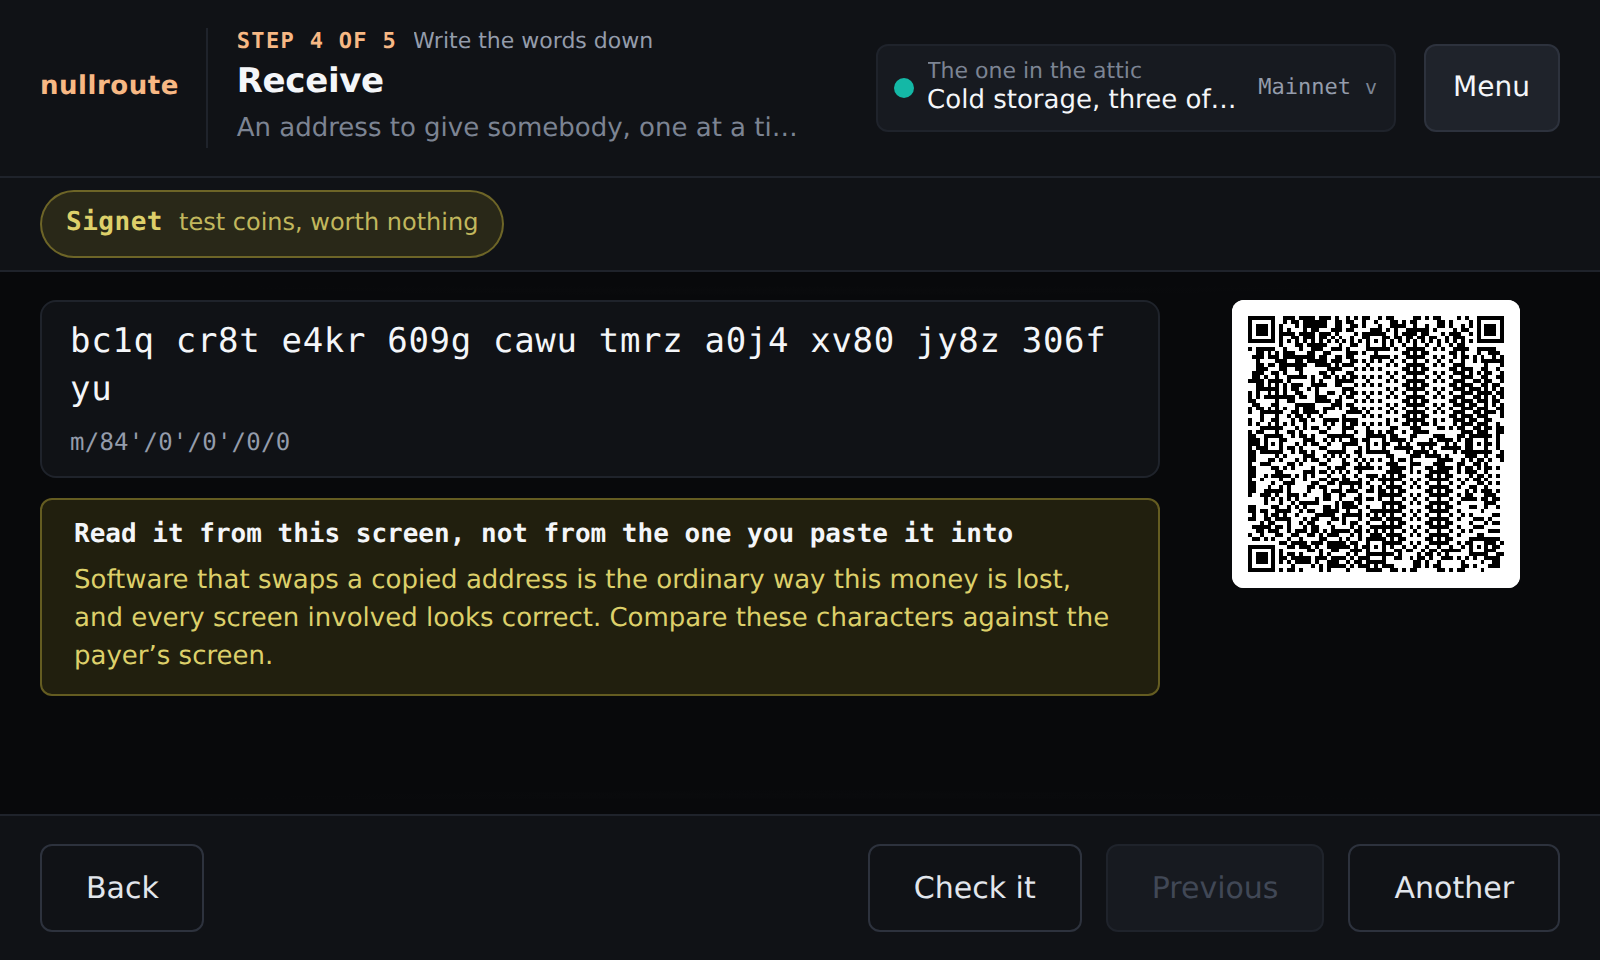
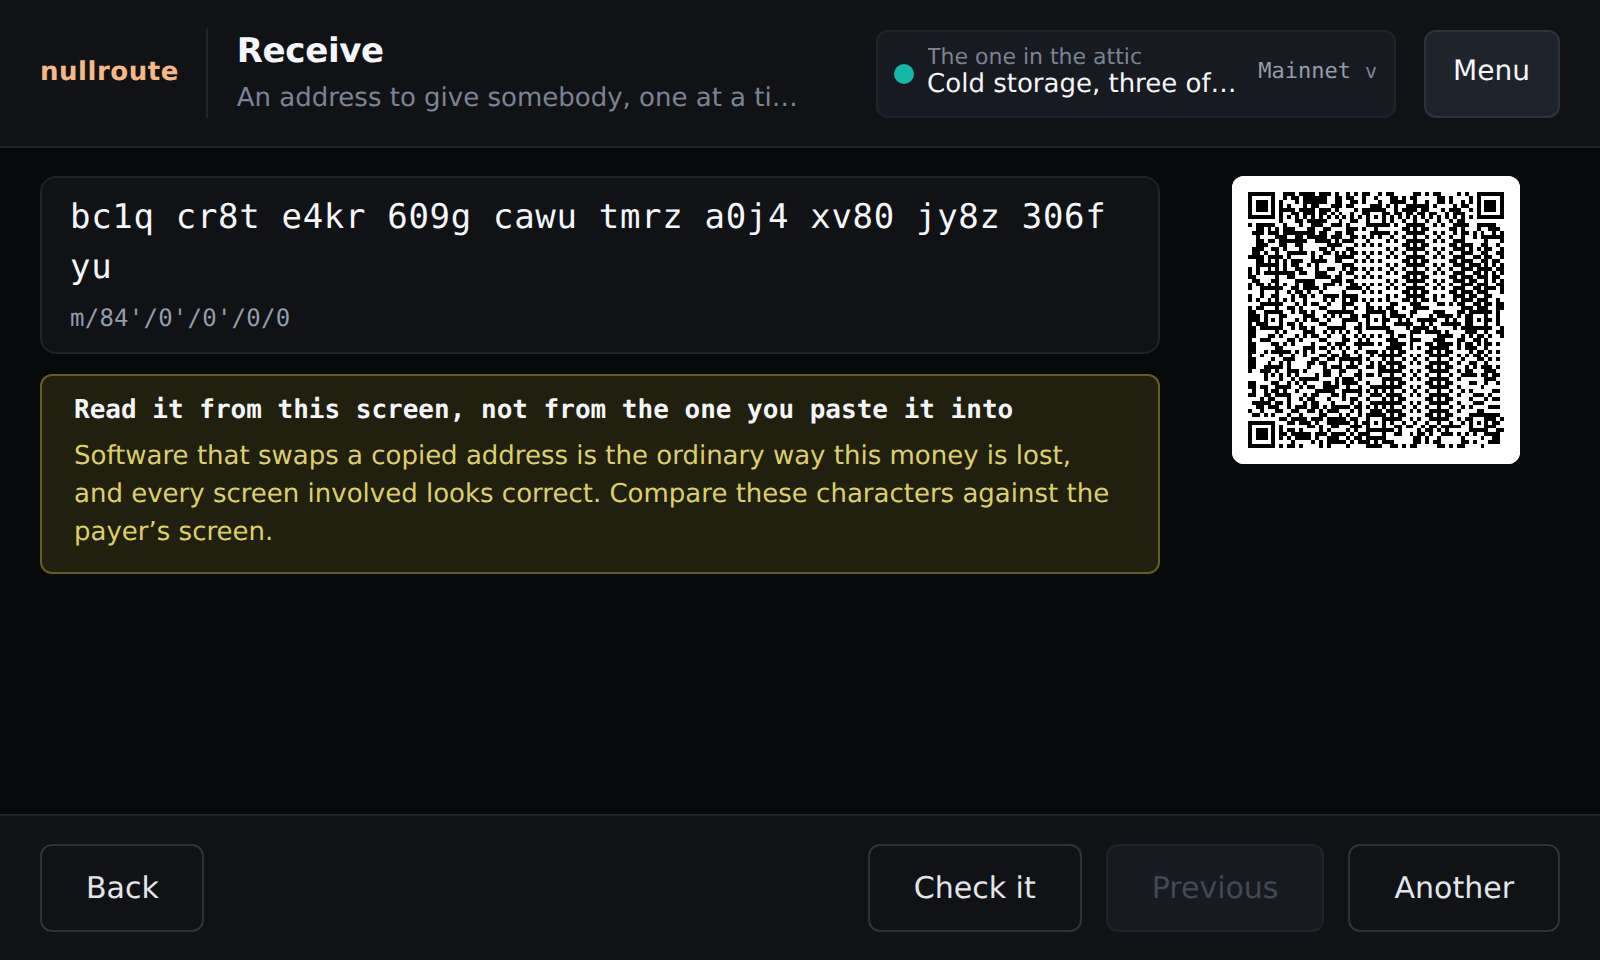
The website's screenshots showed a test fixture, not a device
The gallery puts a Signet banner and a "4 of 5, Write the words down" step
counter on every state, so the layout checks measure the tallest header a
screen can have. The site's screenshots inherited both: a Signet banner
beside a wallet labelled Mainnet, and a seed-writing step counter above the
transaction review. The review picture was also the paste box the review
starts from, under a caption about reading before signing.

`?as=shot` renders the realistic fixture, which only the screenshots ask
for, so the checks still measure the worst case. The review is now shot
after tapping Review, through the reach list the generator already
supported and no screen had used: a transaction the device refuses, with the
reason beside the disabled control.

diff --git a/tools/screens/gallery.tsx b/tools/screens/gallery.tsx
@@ -1911,8 +1911,20 @@ const REACH: Record<string, readonly (readonly string[])[]> = {
   ...(REACH[name] ?? []).map((reach) => ({ name, reach })),
 ])
 
-const name = new URLSearchParams(window.location.search).get('screen') ?? 'wallet'
+const params = new URLSearchParams(window.location.search)
+const name = params.get('screen') ?? 'wallet'
 const render = SCREENS[name]
+
+/*
+ * AS THE WEBSITE SHOWS IT, NOT AS THE PANEL HAS TO SURVIVE IT. Every state
+ * below gets a Signet banner and a "4 of 5" step counter so the layout checks
+ * measure the tallest header a screen can have. That is the right fixture for
+ * a check and the wrong one for a picture: a published screenshot showed a
+ * Signet banner beside a wallet labelled Mainnet, and a seed-writing step
+ * counter above the transaction review. `?as=shot` turns both off, so a
+ * screenshot shows a mainnet wallet the way a mainnet wallet looks.
+ */
+const realistic = params.get('as') === 'shot'
 
 /**
  * Every state carries the network banner, unless its fixture set one already.
@@ -1997,6 +2009,8 @@ root.render(
       <pre data-testid="gallery-unknown">
         {`No screen called ${name}. Known: ${Object.keys(SCREENS).join(', ')}`}
       </pre>
+    ) : realistic ? (
+      render()
     ) : (
       withBanner(withSteps(render(), name))
     )}
